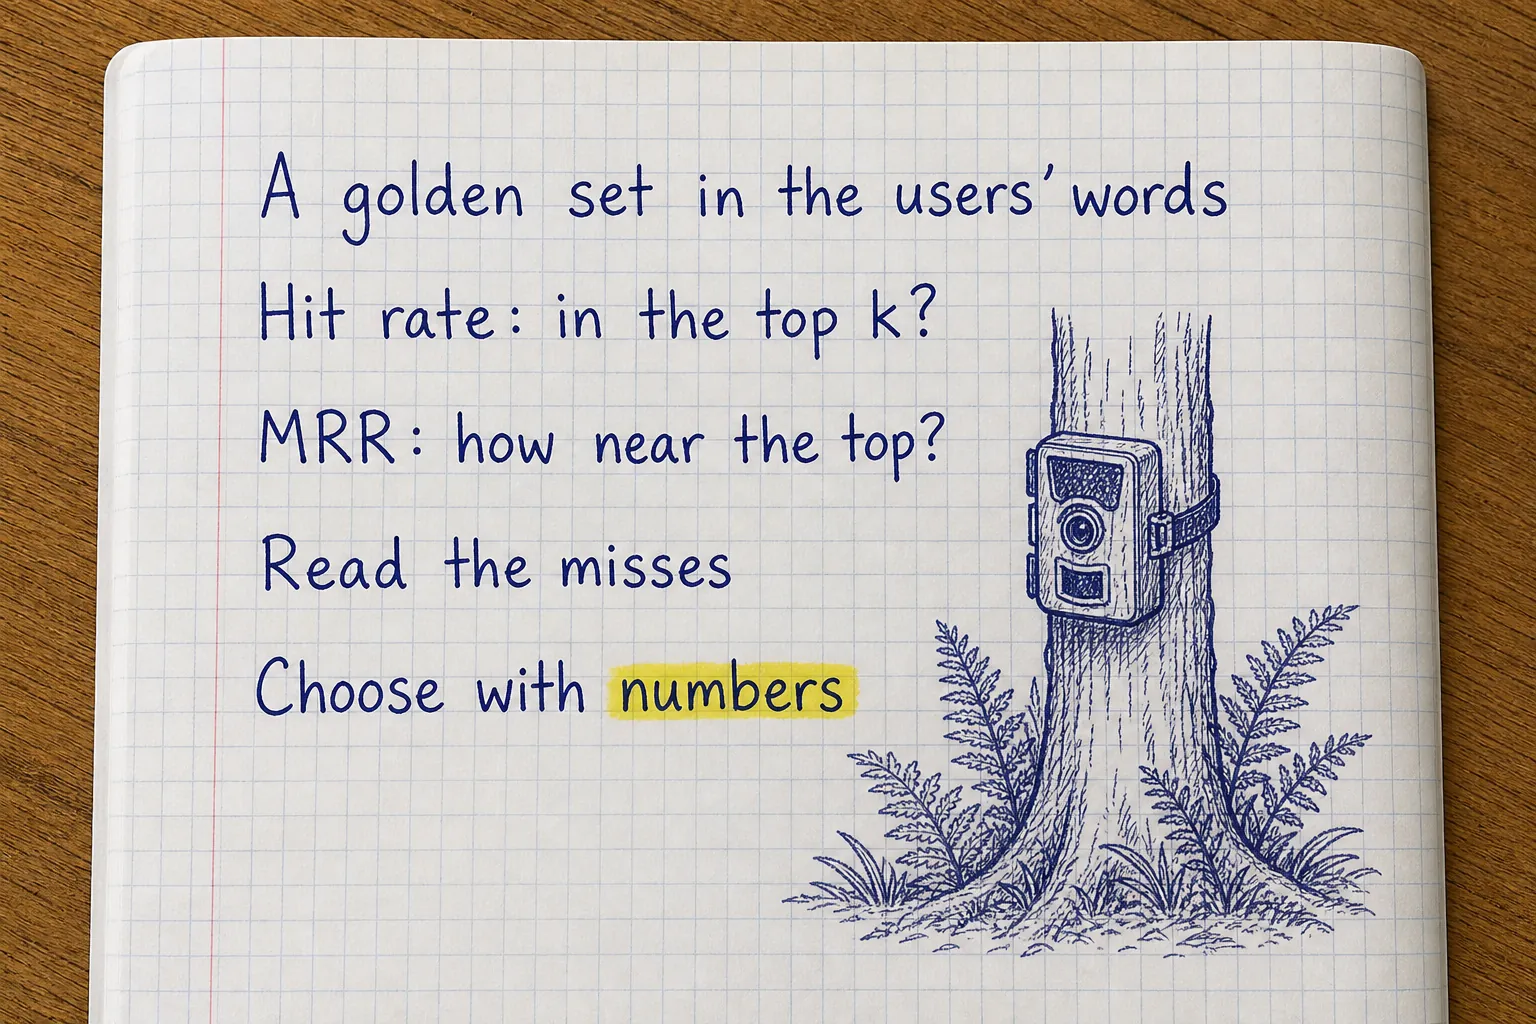
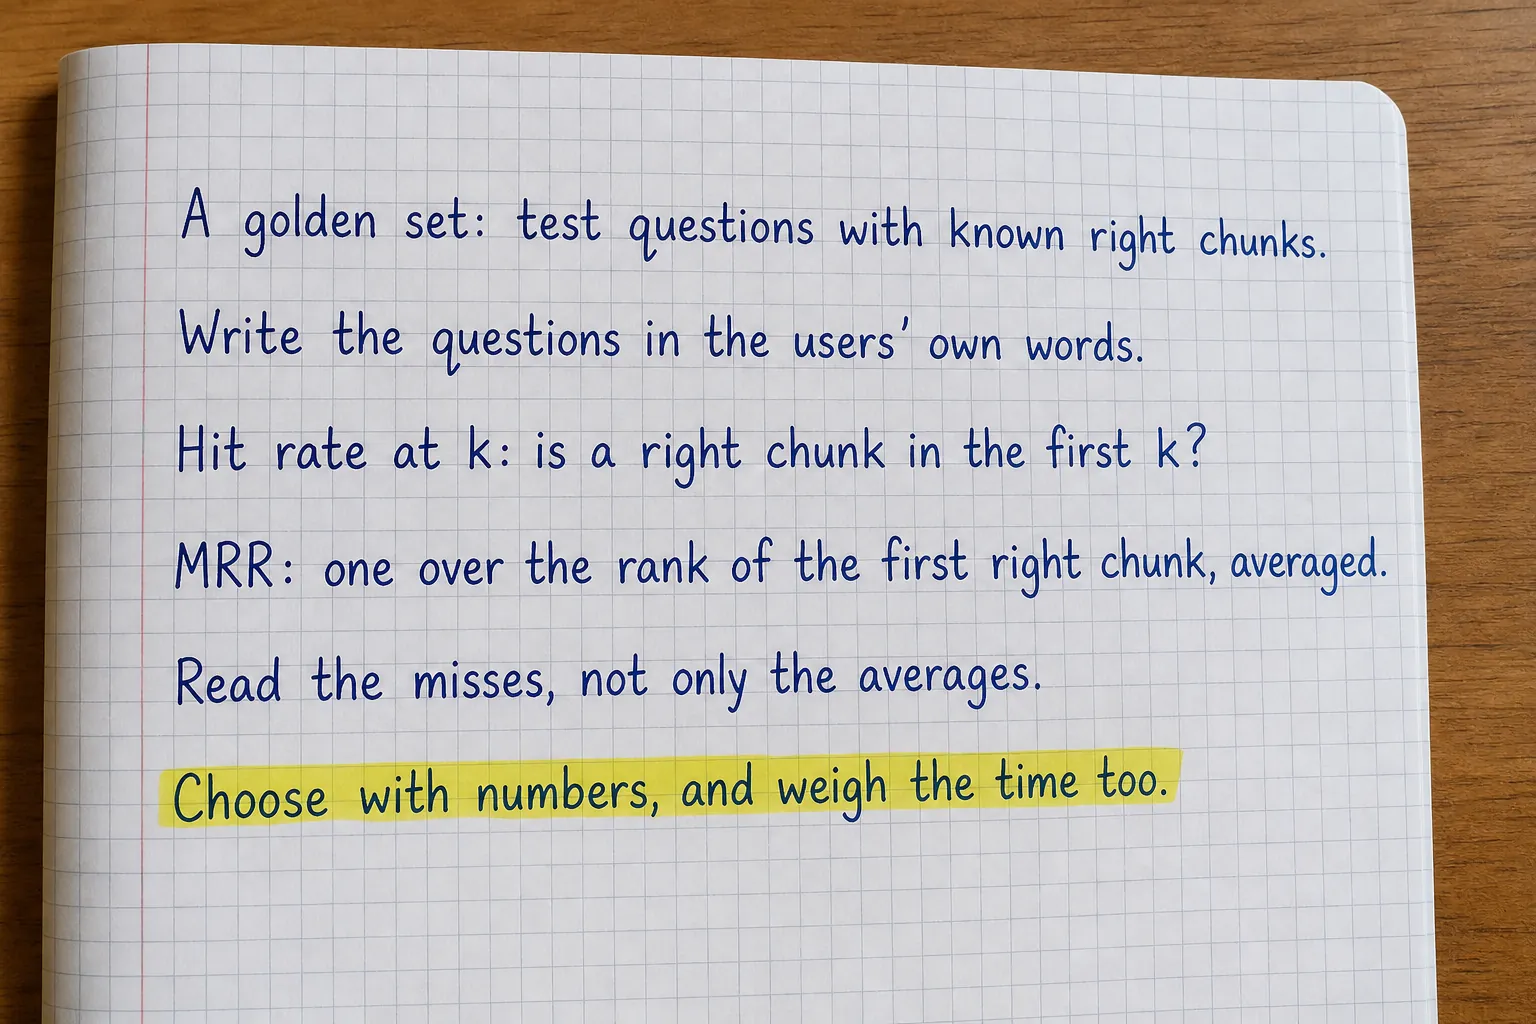
RAG chapter 12 rewritten: plain and fuller, a still picture of the real evaluation, claims checked and corrected

diff --git a/frontend/src/lesson/Diagrams.tsx b/frontend/src/lesson/Diagrams.tsx
@@ -3681,6 +3681,39 @@ function RagGate() {
   );
 }
 
+function RagEval() {
+  // Real output of evaluate.py on the 26 test questions.
+  const rows: [string, number, number, string][] = [
+    ["keywords (chapter 1)", 50, 77, "4 ms"],
+    ["dense (chapter 3)", 77, 92, "20 ms"],
+    ["hybrid (chapter 9)", 58, 92, "23 ms"],
+    ["hybrid + rerank (chapter 10)", 88, 100, "1,696 ms"],
+  ];
+  const W = 340;
+  return (
+    <Svg viewBox="0 0 440 372" label="Hit at 1 and hit at 5 for four pipelines on 26 questions: keywords 50 and 77, dense 77 and 92, hybrid 58 and 92, hybrid with rerank 88 and 100 percent">
+      <rect x={0} y={4} width={14} height={12} className="dg-box" style={{ fill: "var(--figure-yellow)", stroke: "var(--figure-yellow-edge)" }} />
+      <text className="dg-note" x={20} y={15}>hit@1: right chunk first</text>
+      <rect x={210} y={4} width={14} height={12} style={{ fill: "var(--figure-green)", stroke: "var(--figure-green-edge)" }} />
+      <text className="dg-note" x={230} y={15}>hit@5: in the top five</text>
+      {rows.map(([name, h1, h5, ms], i) => {
+        const y = 44 + i * 80;
+        return (
+          <g key={name}>
+            <text className="dg-label" x={0} y={y}>{name}</text>
+            <text className="dg-note" x={440} y={y} textAnchor="end">{ms} a question</text>
+            <rect x={0} y={y + 8} width={(W * h1) / 100} height={18} rx={4} style={{ fill: "var(--figure-yellow)", stroke: "var(--figure-yellow-edge)", strokeWidth: 1.5 }} />
+            <text className="dg-note" x={(W * h1) / 100 + 8} y={y + 22}>{h1}%</text>
+            <rect x={0} y={y + 32} width={(W * h5) / 100} height={18} rx={4} style={{ fill: "var(--figure-green)", stroke: "var(--figure-green-edge)", strokeWidth: 1.5 }} />
+            <text className="dg-note" x={(W * h5) / 100 + 8} y={y + 46}>{h5}%</text>
+          </g>
+        );
+      })}
+      <text className="dg-note" x={0} y={366}>Times: the lab machine's 2 CPUs, one run.</text>
+    </Svg>
+  );
+}
+
 const DIAGRAMS: Record<string, () => JSX.Element> = {
   "rag-flow": RagFlow,
   "rag-embed": RagEmbed,
@@ -3693,6 +3726,7 @@ const DIAGRAMS: Record<string, () => JSX.Element> = {
   "rag-rrf": RagRrf,
   "rag-two-stage": RagTwoStage,
   "rag-gate": RagGate,
+  "rag-eval": RagEval,
   "rs-cli": RsCli,
   "rs-rc-refcell": RsRcRefCell,
   "rs-threads": RsThreads,

diff --git a/labs/rag-vector-databases/chapters/12-evaluation.md b/labs/rag-vector-databases/chapters/12-evaluation.md
@@ -23,7 +23,9 @@ the same 26 questions and decide, with numbers, which one Fieldbook should use.
 {"question": "Who is allowed into the core zone?", "answers": ["FM-1.1", "FM-6.4"]},
 ```
 
-This is a **golden set**. A good one:
+A fixed list of test questions with their right answers, chosen once and kept, is called a **golden set**. Here, the
+right answers are chunk ids: the test checks whether retrieval finds the right chunk, not what the model then says. A good
+golden set:
 
 | Rule | Why |
 |---|---|
@@ -45,19 +47,33 @@ hit rate at k = (questions with a right id in their first k results) / (all ques
 
 `hit@1` asks for the right chunk in first place; `hit@5` anywhere in the first five. A question with two right answers
 (the core zone) is a hit if either appears.
+
+A real example from this chapter's run: dense search has a right chunk in its first five results for 24 of the 26
+questions, so its hit@5 is 24 / 26 = 92%. It has a right chunk in first place for 20 of them: hit@1 = 20 / 26 = 77%.
 :::
 
 :::step{type=task task=hit_rate title="Your turn: hit rate at k" file="12-evaluation/fieldbook.py" line="384-389"}
 Write `hit_rate(results, expected, k=5)`. `results` has one list of ids per question (best first), `expected` one list of
-right ids per question. Count the questions where `set(got[:k]) & set(good)` is not empty, and divide by the number of
-questions.
+right ids per question.
+
+1. Walk both lists together: `for got, good in zip(results, expected)`.
+2. Count the questions where `set(got[:k]) & set(good)` is not empty (`&` keeps the ids that are in both sets).
+3. Divide the count by the number of questions, `len(results)`.
+
+The usual slips:
+
+- Using `got[k]` (one id, the (k+1)th) instead of `got[:k]` (the first k).
+- Comparing `got[:k] == good`: the order and length rarely match, so almost nothing counts as a hit.
 
 Press **Check**.
 :::
 
 :::step{type=concept title="Mean reciprocal rank" file="12-evaluation/fieldbook.py" line="392-396"}
-Hit rate at 5 does not care whether the right chunk is first or fifth, but the model does: it reads the first source most
-carefully, and chapter 11's refusal rule looks only at the first. **Mean reciprocal rank** rewards putting it first:
+Hit rate at 5 does not care whether the right chunk is first or fifth. But first place matters: chapter 11's gate looks
+only at the first source's score, and the first source is the one the model is most likely to cite. The **reciprocal**
+of a number is 1 divided by it, so the reciprocal of a rank is 1 for first place, 1/2 for second, 1/3 for third.
+**Mean reciprocal rank** (MRR) is the average of that over all questions, with 0 for a question whose right chunk never
+appears. It rewards putting the right chunk first:
 
 :::trace{title="MRR over four questions"}
 | question | first right id at position | reciprocal rank |
@@ -74,8 +90,17 @@ Only the **first** right id counts: a question with right ids at positions 2 and
 :::
 
 :::step{type=task task=mrr title="Your turn: mean reciprocal rank" file="12-evaluation/fieldbook.py" line="392-396"}
-Write `mrr(results, expected)`: for each question, walk its results with `enumerate(got, start=1)`; at the first id in
-the right answers add `1 / rank` to a total and `break`. Return the total divided by the number of questions.
+Write `mrr(results, expected)`:
+
+1. Start a total at 0.
+2. For each question, walk its results with `for rank, item in enumerate(got, start=1)`. At the first `item` that is in
+   the right answers, add `1 / rank` to the total and `break`.
+3. Return the total divided by the number of questions.
+
+The usual slips:
+
+- Forgetting `break`: a question with right ids at positions 2 and 3 then adds 1/2 + 1/3 instead of 1/2.
+- `enumerate(got)` without `start=1`: first place then divides by 0.
 
 ```bash run
 cd /workspace/12-evaluation && python evaluate.py
@@ -91,14 +116,15 @@ compared, because nobody had tested them on the same questions.
 :::
 
 In the **1960s** Cyril Cleverdon at the College of Aeronautics in Cranfield, England, ran the **Cranfield experiments**:
-1,400 documents, a set of questions, and people's judgements of which documents answered which question. For the first
+about 1,400 documents on aeronautics, a set of questions, and people's judgements of which documents answered which question. For the first
 time, indexing methods were compared on the same test collection with numbers, and some cherished methods lost. In
 **1992** the US National Institute of Standards and Technology started **TREC**, a yearly evaluation that gave
 researchers shared collections and measures; mean reciprocal rank was used there to score question answering (**1999**).
 RAG brought the same practice to new teams, along with tools that use a language model to judge answers (RAGAS, **2023**).
 
 :::solved
-**Decisions by numbers.** A golden set turns "it feels better" into "hit@1 went from 77% to 88%", and catches the change
+**Decisions by numbers.** A golden set turns "it feels better" into "hit@1 went from 77% to 88%" (dense to hybrid +
+rerank, in this chapter), and catches the change
 that quietly made things worse.
 :::
 
@@ -122,54 +148,67 @@ $ python evaluate.py
 26 questions
 
 pipeline                        hit@1  hit@5    MRR   ms/q
-keywords (chapter 1)              50%    77%   0.62      1
+keywords (chapter 1)              50%    77%   0.62      4
     missed: What should I do if a big cat is right in front of me on the trail?
     missed: What did CT-112 record?
     missed: When is the park shut because of the rains?
     missed: Is it all right to cook dinner at the gate in March?
     missed: Can tourists get out of the jeep to take photos?
     missed: What time does the morning safari start?
-dense (chapter 3)                 77%    92%   0.85     23
+dense (chapter 3)                 77%    92%   0.85     20
     missed: What did CT-112 record?
     missed: Which report mentions CT-104?
-hybrid (chapter 9)                58%    92%   0.74     27
+hybrid (chapter 9)                58%    92%   0.74     23
     missed: Is it all right to cook dinner at the gate in March?
     missed: Can tourists get out of the jeep to take photos?
-hybrid + rerank (chapter 10)      88%   100%   0.94   1723
+hybrid + rerank (chapter 10)      88%   100%   0.94   1696
 ```
+
+The percentages and MRR are the same on every run. The times (ms/q, milliseconds a question) are from the lab machine's
+2 CPUs and change a little from run to run.
+
+:::diagram{name="rag-eval"}
+The real results of `evaluate.py`: for each pipeline, how often the right chunk came first (hit@1) and how often it was in
+the top five (hit@5), out of 26 questions.
+:::
 
 The misses (outside the top 5) tell the story of the whole course:
 
-1. **Keywords** miss every paraphrase ("big cat", "shut because of the rains", "cook dinner") and, surprisingly,
-   CT-112: counting words gives "record" the same weight as "CT-112", and manual sections that say "record" come first.
-   BM25's rarity weighting exists for exactly this.
+1. **Keywords** miss the questions asked in other words ("big cat", "shut because of the rains", "cook dinner") and,
+   surprisingly, CT-112. Chapter 1's word counting gives every shared word one point. For "What did CT-112 record?" seven
+   chunks share exactly one word: six say "record" or "did", and only R-0301 says "ct-112". Ties keep the documents'
+   order (manual sections before reports), so five manual sections come first and R-0301 is 6th, just outside the top 5. BM25's rarity weighting
+   exists for exactly this.
 2. **Dense** search misses only the two **code** questions.
-3. **Hybrid** fixes both codes, but loses two paraphrases, the RRF effect from chapter 9, and its hit@1 **drops** from
-   77% to 58%: BM25 pushes chunks that share common words up into first place.
+3. **Hybrid** brings both codes into the top 5 (2nd place each), but loses two questions asked in other words, the RRF
+   effect from chapter 9, and its hit@1 **drops** from 77% to 58%: fusion rewards chunks that are fairly high in both
+   lists, and that pushed six right answers out of first place.
 4. **Hybrid + rerank** misses nothing in the top 5 and is right first time for 88% of the questions, with the best MRR
-   (0.94). It is also **75 times slower** (1.7 seconds against 23 ms).
+   (0.94). It is also **about 80 times slower** (about 1.7 seconds a question against about 20 ms).
 
 So, with numbers:
 
 | If Fieldbook needs | Choose | Because |
 |---|---|---|
 | the best answers, a ranger can wait 2 s | hybrid + rerank | 100% at 5, 88% first time |
-| instant results (search as you type) | dense | 92% at 5 in 23 ms, but codes need a fallback |
+| instant results (search as you type) | dense | 92% at 5 in about 20 ms, but codes need a fallback |
 | never hybrid alone | | on these questions it is worse than dense at first place |
 
 Fieldbook uses hybrid + rerank. Notice the third row: without this table, hybrid search "obviously" looked like an
-improvement.
+improvement. These conclusions hold for these 26 questions and these documents; with your own data, run the same table.
 :::
 
 :::step{type=predict title="Guess first"}
 :::question
 You add 10 more questions, all about camera trap codes. What happens to the gap between dense and hybrid?
 :::
-- [x] Hybrid gains on dense: codes are where BM25 helps
+- [x] Hybrid gains on dense, at least in the top 5: codes are where BM25 helps
 - [ ] Nothing: the measures are averages
 - [ ] Dense gains: codes are about meaning
 :::explain
-Which pipeline wins depends on the questions you test with, which is why the golden set must look like real use.
+On the three code questions already in the set, hybrid moved two right answers from 7th and 14th (dense) to 2nd. More
+such questions would raise hybrid's hit@5 against dense. Which pipeline wins depends on the questions you test with,
+which is why the golden set must look like real use.
 :::
 :::
 
@@ -181,7 +220,8 @@ A pipeline has hit@5 of 100% and MRR of 0.4. What does that tell you?
 - [ ] It is perfect
 - [ ] It misses 60% of the questions
 :::explain
-An MRR of 0.4 means the first right chunk is typically around position 2 or 3.
+An MRR of 0.4 is what you get when the first right chunk is usually second or third (1/2 = 0.5, 1/3 = 0.33). A reranker
+puts more of them first.
 :::
 :::
 
@@ -221,7 +261,7 @@ You can now:
 
 Next, chapter 13: Fieldbook as a web service.
 
-:::photo{src="/lesson-images/rag/rag-12-notes.webp" alt="Handwritten notes about evaluation: A golden set in the users' words; Hit rate: in the top k?; MRR: how near the top?; Read the misses; Choose with numbers" ai="true"}
+:::photo{src="/lesson-images/rag/rag-12-notes.webp" alt="Handwritten notes about evaluation: A golden set: test questions with known right chunks. Write the questions in the users' own words. Hit rate at k: is a right chunk in the first k? MRR: one over the rank of the first right chunk, averaged. Read the misses, not only the averages. Choose with numbers, and weigh the time too." ai="true"}
 One page of notes for this chapter.
 :::
 :::

diff --git a/CHANGELOG.md b/CHANGELOG.md
@@ -1,5 +1,17 @@
 # Changelog
 
+## 25 November: RAG chapter 12 rewritten (easy, a little detailed, checked)
+
+- Golden sets, hit rate, reciprocals and MRR are explained where they first appear, with a real worked example (dense:
+  24 / 26 = 92% at 5, 20 / 26 = 77% first); tasks list their steps and the usual slips.
+- A new still picture, `rag-eval`: hit@1 and hit@5 of the four pipelines from the real run, with their times.
+- Checked by re-running `evaluate.py` on 2 CPUs: every percentage and MRR matches; the times now show this run (4, 20,
+  23 and 1,696 ms) and are labelled as the lab machine's. Corrected: keyword search misses CT-112 because seven chunks
+  share one word each ("record", "did" or "ct-112") and ties keep the documents' order (R-0301 6th), not only because
+  of "record"; hybrid brings the codes to 2nd place, not first; "the model reads the first source most carefully"
+  replaced by what is known (the gate checks the first source); "75 times slower" is about 80 times in this run; the
+  conclusions are labelled as holding for these questions and documents. A new notes page.
+
 ## 25 November: RAG chapter 11 rewritten (easy, a little detailed, checked)
 
 - Grounded answers, the system message, NOT_FOUND, the model gateway's `lab-chat` name and temperature are explained where
